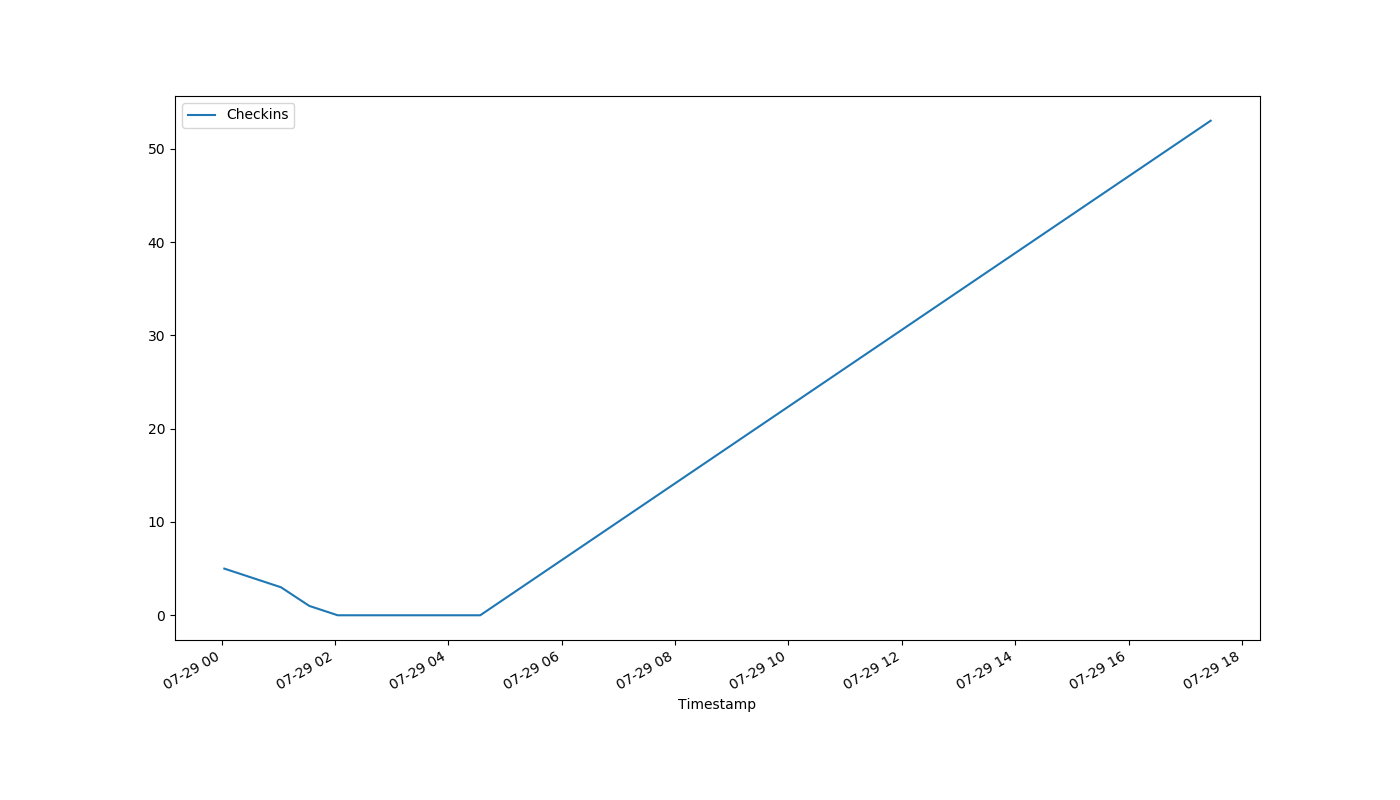
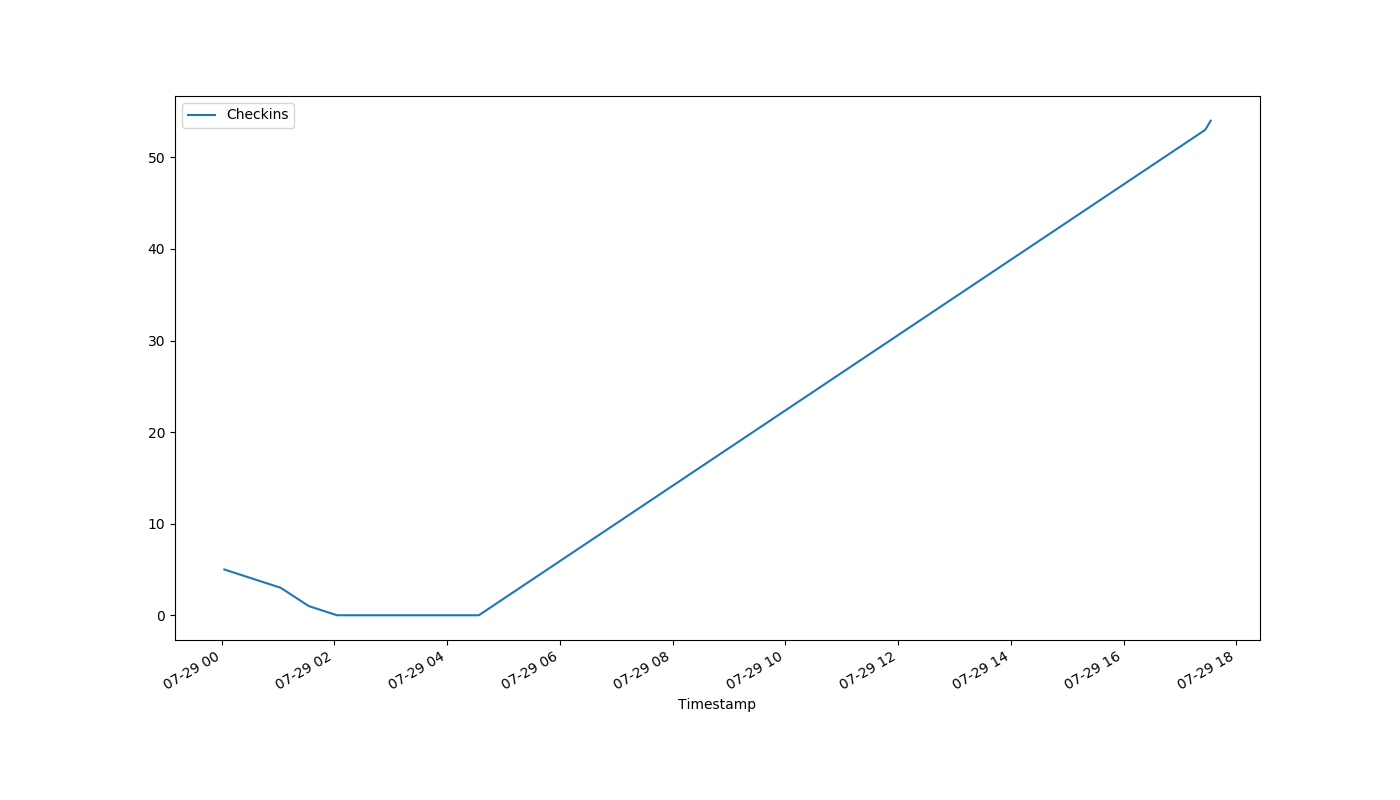
auto-Jul-29-17:33:58

diff --git a/index.html b/index.html
@@ -1,1 +1,1 @@
-<!DOCTYPE html><html><head><meta http-equiv="refresh" content="30"><link rel='stylesheet' href='holmcurrent.css'></head><body><p id='count'>-1</p><div id='graph-wrap'><img id='graph' src='holmgraph-Jul-29.png'></div><p id='updated'>Last updated 17:31:18 / 17:31:15</p></body></html>
+<!DOCTYPE html><html><head><meta http-equiv="refresh" content="30"><link rel='stylesheet' href='holmcurrent.css'></head><body><p id='count'>54</p><div id='graph-wrap'><img id='graph' src='holmgraph-Jul-29.png'></div><p id='updated'>Last updated 17:33:19 / 17:32:46</p></body></html>
